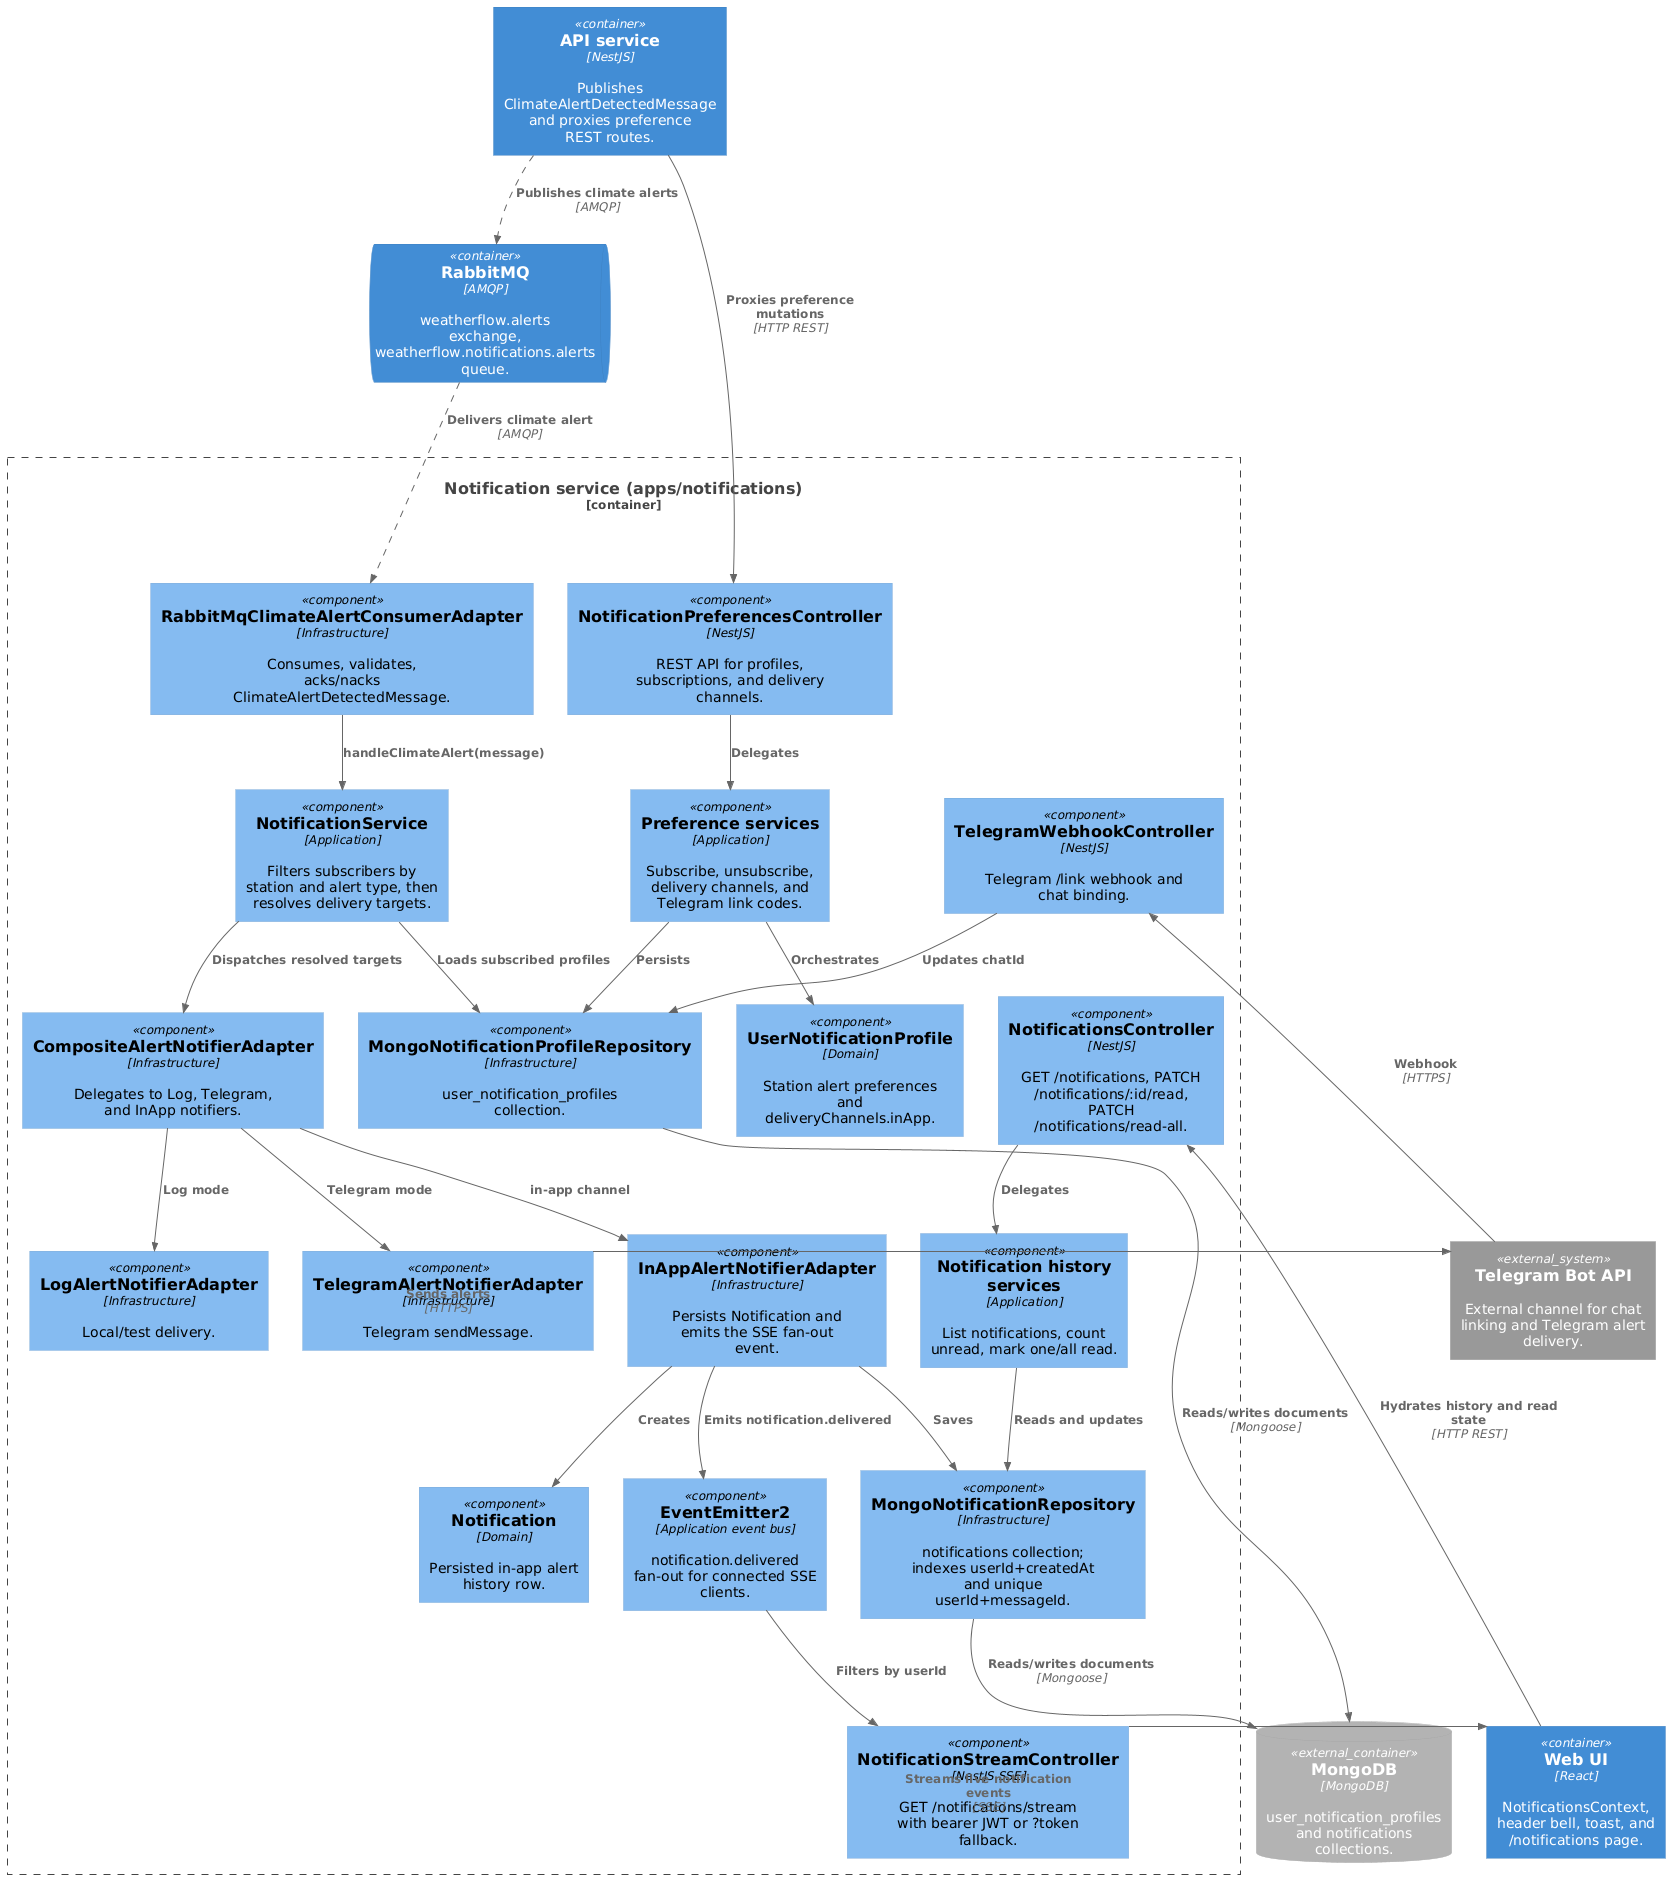
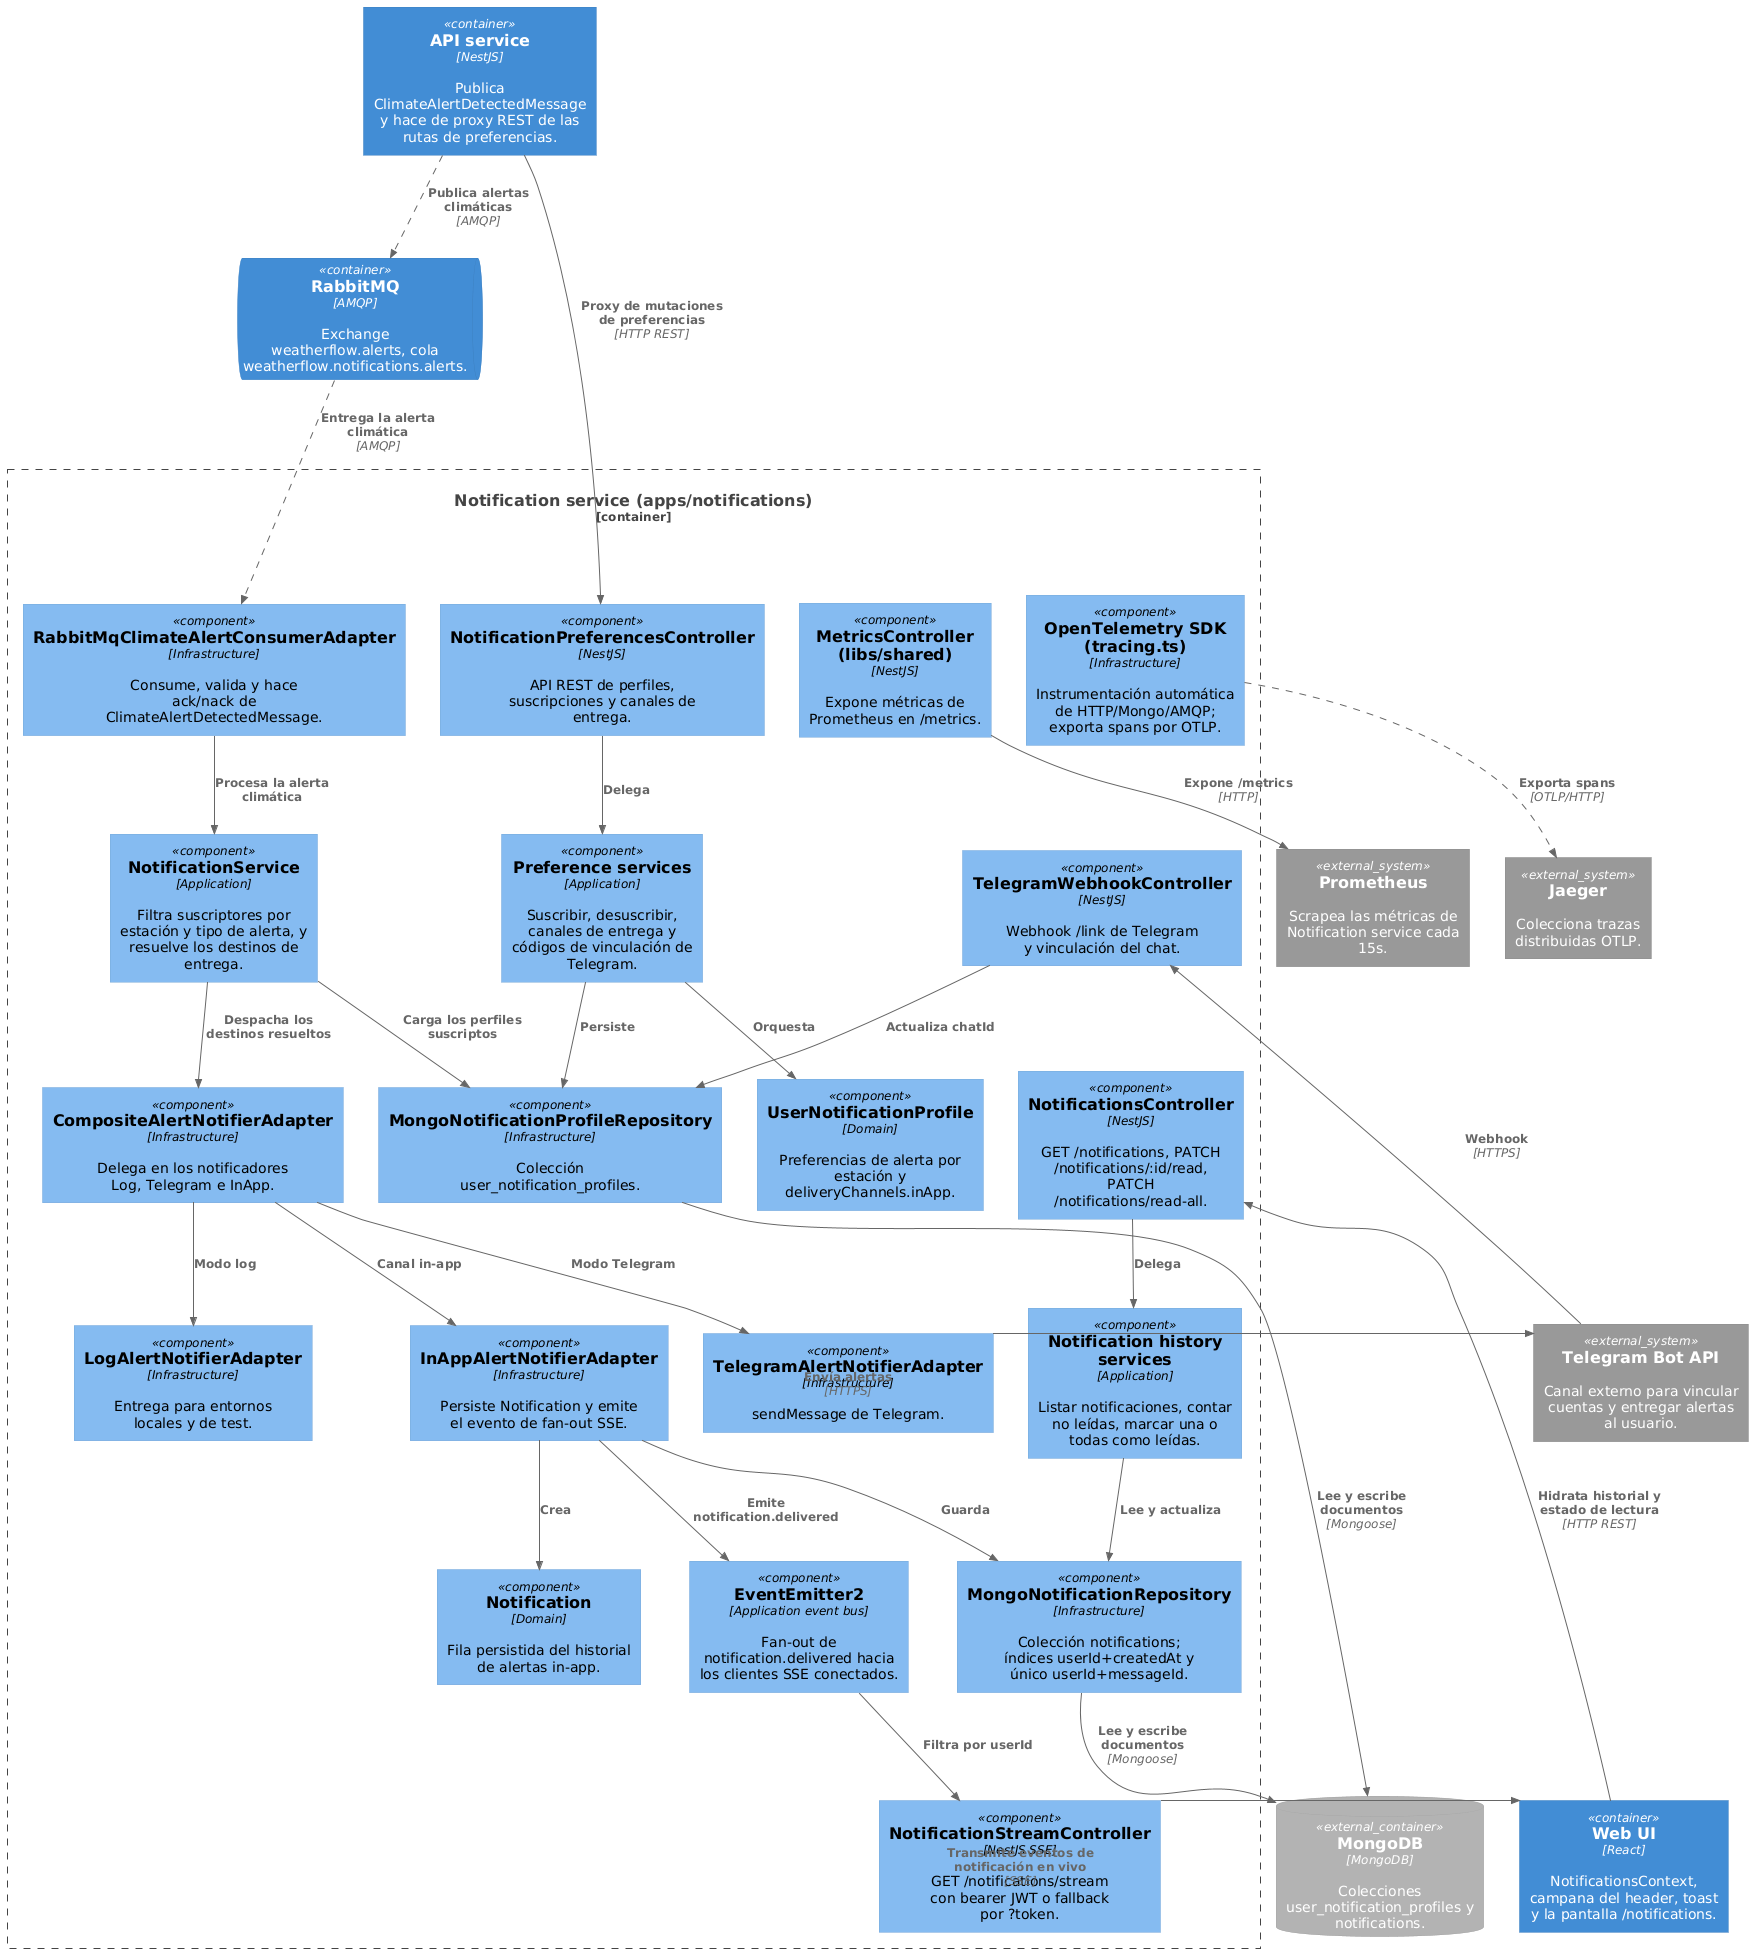
feat(architecture): enhance C4 model documentation with detailed component descriptions and relationships

diff --git a/docs/architecture/c4/architecture.md b/docs/architecture/c4/architecture.md
@@ -22,7 +22,7 @@ El **Usuario** accede solo a **Web UI**; la Web UI consume la API y el Notificat
 
 Fuente: [c4_level_3_api.plantuml](c4_level_3_api.plantuml).
 
-Descompone el contenedor **API service**: el **Usuario** interactua con los controladores a traves de **Web UI** (contenedor hermano). El API publica `ClimateAlertDetectedMessage` en RabbitMQ cuando una medicion dispara una alerta.
+Descompone el contenedor **API service**: el **Usuario** interactua con los controladores a traves de **Web UI** (contenedor hermano). El API publica `ClimateAlertDetectedMessage` en RabbitMQ cuando una medicion dispara una alerta. Incluye los dos controllers internos que recibe desde **Ingestion service** (`InternalIngestionStationsController` para el catalogo `provider=openweather`, `InternalIngestionMeasurementsController` para el alta idempotente de mediciones) y el camino de salida hacia Ingestion: `StationTemperatureReportsController` delega en `GetCurrentTemperatureReportService`, que usa `ApiToIngestionCurrentWeatherClient` para resolver el reporte de temperatura actual en tiempo real. `TemperatureAverageReportsController` resuelve los promedios diario/semanal solo contra MongoDB, sin tocar Ingestion. `MetricsController` (compartido desde `libs/shared`) expone `/metrics` a Prometheus y la instrumentacion de OpenTelemetry exporta spans a Jaeger, igual que en Notifications e Ingestion.
 
 ![C4 nivel 3 - API](c4_level_3_api.png)
 
@@ -30,7 +30,7 @@ Descompone el contenedor **API service**: el **Usuario** interactua con los cont
 
 Fuente: [c4_level_3_notifications.plantuml](c4_level_3_notifications.plantuml).
 
-Descompone el contenedor **Notification service**. Las preferencias llegan via proxy desde **API service**; el **Web UI** consume `GET /notifications`, `PATCH /notifications/:id/read`, `PATCH /notifications/read-all` y el stream SSE `GET /notifications/stream`. Incluye la coleccion `notifications`, el adaptador **InAppAlertNotifierAdapter**, el evento `notification.delivered` y el consumidor Web.
+Descompone el contenedor **Notification service**. Las preferencias llegan via proxy desde **API service**; el **Web UI** consume `GET /notifications`, `PATCH /notifications/:id/read`, `PATCH /notifications/read-all` y el stream SSE `GET /notifications/stream`. Incluye la coleccion `notifications`, el adaptador **InAppAlertNotifierAdapter**, el evento `notification.delivered` y el consumidor Web. Al igual que en API e Ingestion, `MetricsController` expone `/metrics` a Prometheus y la instrumentacion de OpenTelemetry exporta spans a Jaeger.
 
 ![C4 nivel 3 - Notifications](c4_level_3_notifications.png)
 
@@ -38,7 +38,7 @@ Descompone el contenedor **Notification service**. Las preferencias llegan via p
 
 Fuente: [c4_level_3_ingestion.plantuml](c4_level_3_ingestion.plantuml).
 
-Descompone el contenedor **Ingestion service** (Entrega III). `IngestionScheduler` dispara ciclos `scheduled` por `INGESTION_CRON`; `IngestionController` expone el trigger `manual`; ambos delegan en `RunIngestionCycleService`, que orquesta `ApiWeatherStationCatalogAdapter` (catalogo `provider=openweather`), `ResilientWeatherDataProvider` (timeout, circuit breaker, bulkhead y cache sobre `OpenWeatherMapAdapter`) y `ApiMeasurementSubmitterAdapter` (timeout, breaker, bulkhead, reintentos seguros con idempotencia hacia la API). `CurrentWeatherController` reutiliza el mismo `ResilientWeatherDataProvider` para el reporte de temperatura actual, sin el fallback de cache reservado a los ciclos programados. `ManualIngestionTokenGuard` protege los tres endpoints internos con `x-ingestion-token`. Ingestion no accede a MongoDB ni RabbitMQ directamente: siempre escribe a traves del limite REST interno de la API.
+Descompone el contenedor **Ingestion service** (Entrega III). `IngestionScheduler` dispara ciclos `scheduled` por `INGESTION_CRON`; `IngestionController` expone el trigger `manual`; ambos delegan en `RunIngestionCycleService`, que orquesta `ApiWeatherStationCatalogAdapter` (catalogo `provider=openweather`), `ResilientWeatherDataProvider` (timeout, circuit breaker, bulkhead y cache sobre `OpenWeatherMapAdapter`) y `ApiMeasurementSubmitterAdapter` (timeout, breaker, bulkhead, reintentos seguros con idempotencia hacia la API). `CurrentWeatherController` reutiliza el mismo `ResilientWeatherDataProvider` para el reporte de temperatura actual, sin el fallback de cache reservado a los ciclos programados. `ManualIngestionTokenGuard` protege los tres endpoints internos con `x-ingestion-token`. Ingestion no accede a MongoDB ni RabbitMQ directamente: siempre escribe a traves del limite REST interno de la API. `IngestionMetrics`, `OpenWeatherResilienceMetrics` y `HttpBoundaryMetrics` se registran en `MetricsController`, expuesto a Prometheus en `/metrics`; la instrumentacion de OpenTelemetry exporta spans a Jaeger.
 
 ![C4 nivel 3 - Ingestion](c4_level_3_ingestion.png)
 
